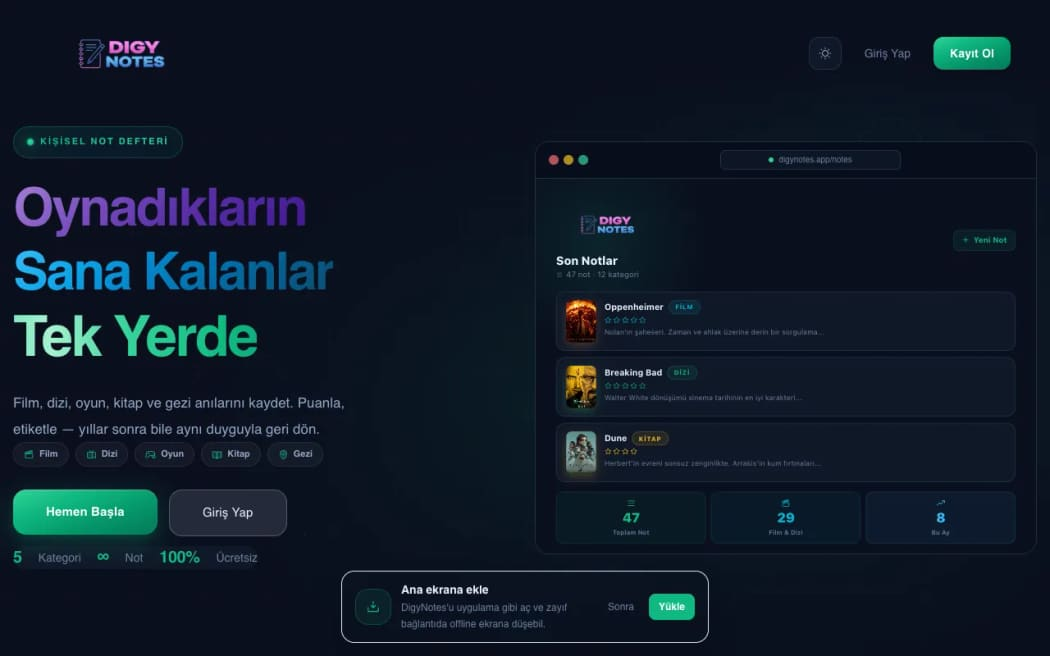
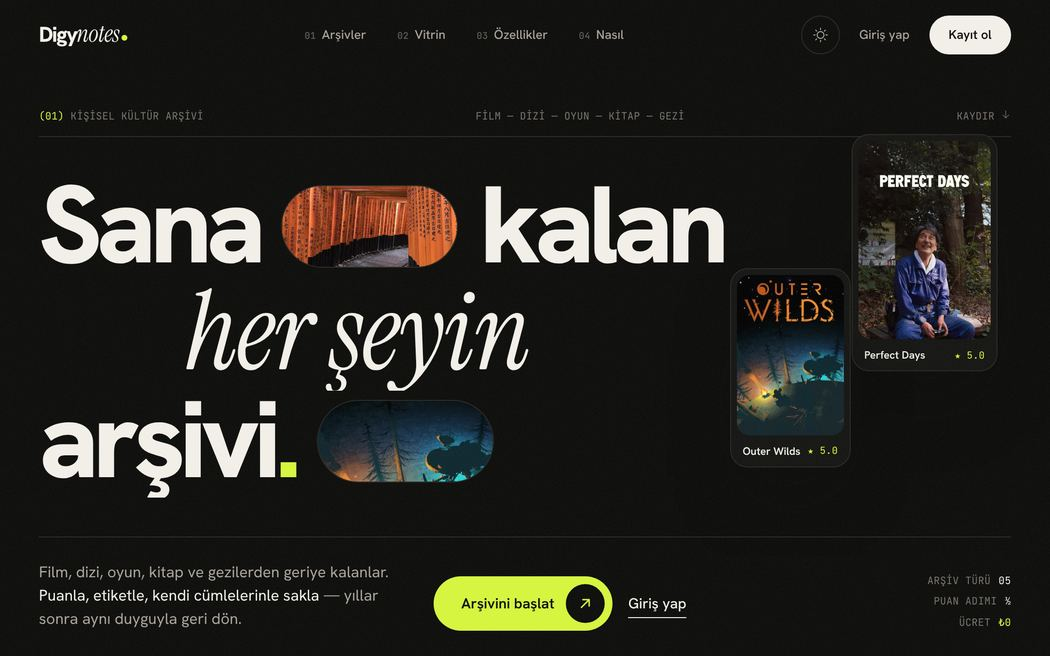
DigyNotes: yeniden tasarım sonrası ekran görüntüleri
- Tam set: masaüstü (landing hero), masaüstü-2 (notlar), mobil; açık + koyu
- project-shots: digynotes artık ALL_VIEWS / themed / FULL
- Vurgu rengi asit lime, zemin tonu zeytin; OG kapağı yeni koyu çekimden

Claude-Session: https://claude.ai/code/session_016ADWfEhpTTUmHxukV71rS7

diff --git a/lib/content/project-shots.ts b/lib/content/project-shots.ts
@@ -6,7 +6,8 @@ import { projectShot, type ShotView } from '@/lib/project-shot'
  * da silinirse burası da değişir.
  *
  * - Tam set (desktop + desktop-2 + mobile, 2160×1350 / 780×1688): yeni
- *   çekimler. karalama ve dungeon-mates yalnız KOYU temalı: iki dosya da
+ *   çekimler (digynotes 9 Ekim 2026'da yeniden tasarımla eklendi).
+ *   karalama ve dungeon-mates yalnız KOYU temalı: iki dosya da
  *   koyu, o yüzden `themed: false` (tek görsel, ikisini indirmeye gerek yok).
  * - Yalnız desktop, 1280×800: eski görselin kopyası; iki dosya aynı.
  * - derinay ve elevenforge: eski desktop + yeni mobile (780×1688), tek temalı.
@@ -60,7 +61,9 @@ export const PROJECT_SHOTS = {
   derinay: { views: DESKTOP_AND_MOBILE, themed: false, size: LEGACY_WITH_MOBILE },
   keskealsaydim: { views: DESKTOP_ONLY, themed: false, size: LEGACY, darkInk: true },
   'ramazan-vakitleri': { views: DESKTOP_ONLY, themed: false, size: LEGACY, darkInk: true },
-  digynotes: { views: DESKTOP_ONLY, themed: false, size: LEGACY, darkInk: true },
+  /* Yeniden tasarım sonrası tam set (9 Ekim 2026): landing hero, notlar
+     sayfası ve telefon hero'su; iki temalı. */
+  digynotes: { views: ALL_VIEWS, themed: true, size: FULL },
 } as const satisfies Record<string, ShotSet>
 
 export type ShotSlug = keyof typeof PROJECT_SHOTS

diff --git a/lib/content/projects.ts b/lib/content/projects.ts
@@ -116,8 +116,11 @@ export const projects: Project[] = [
     tags: ['Next.js 14', 'TypeScript', 'Prisma', 'Neon', 'NextAuth', 'Tailwind CSS'],
     link: 'https://digy-notes.vercel.app',
     github: 'https://github.com/ahmetakyapi/DigyNotes',
-    accent: '#10b981',
-    gradient: 'linear-gradient(135deg, #10b981 0%, #059669 100%)',
+    accent: '#d4f53c',
+    /* Arayüz mürekkep siyahı + asit lime (9 Ekim 2026 yeniden tasarımı);
+       zemin tonu açık temadaki zeytin vurgu. */
+    tint: '#4f7300',
+    gradient: 'linear-gradient(135deg, #d4f53c 0%, #4f7300 100%)',
     badge: 'Canlı',
     featured: false,
   },
